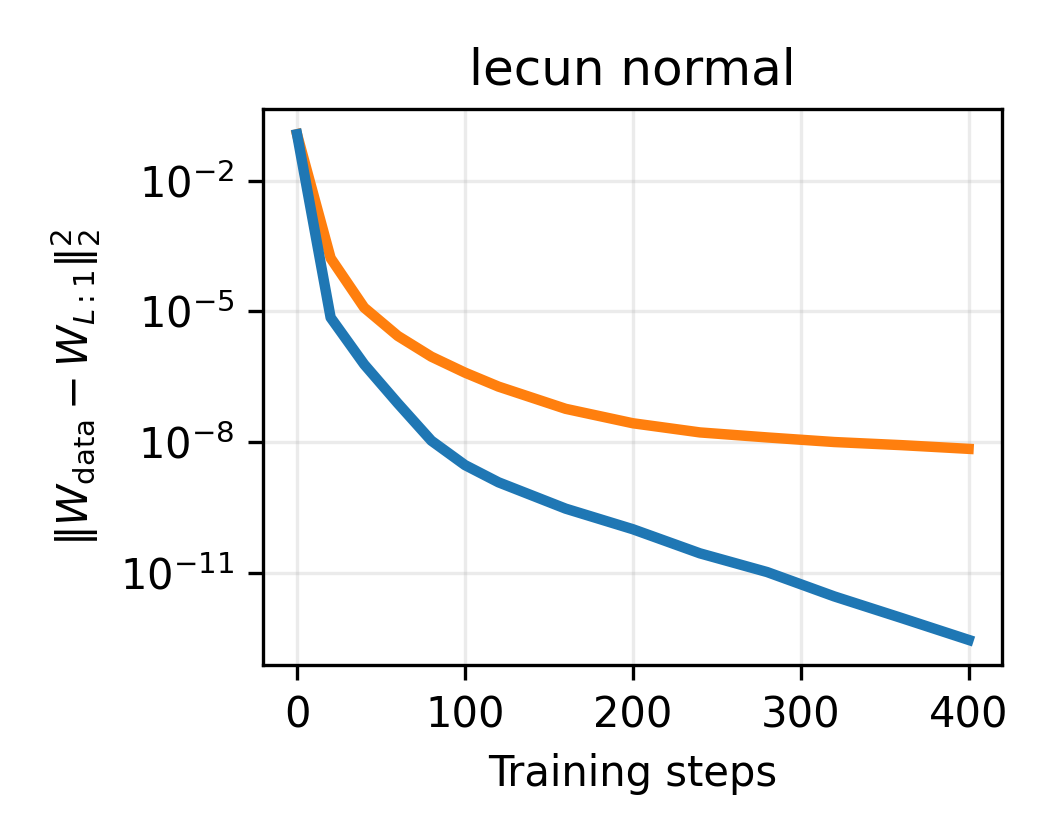
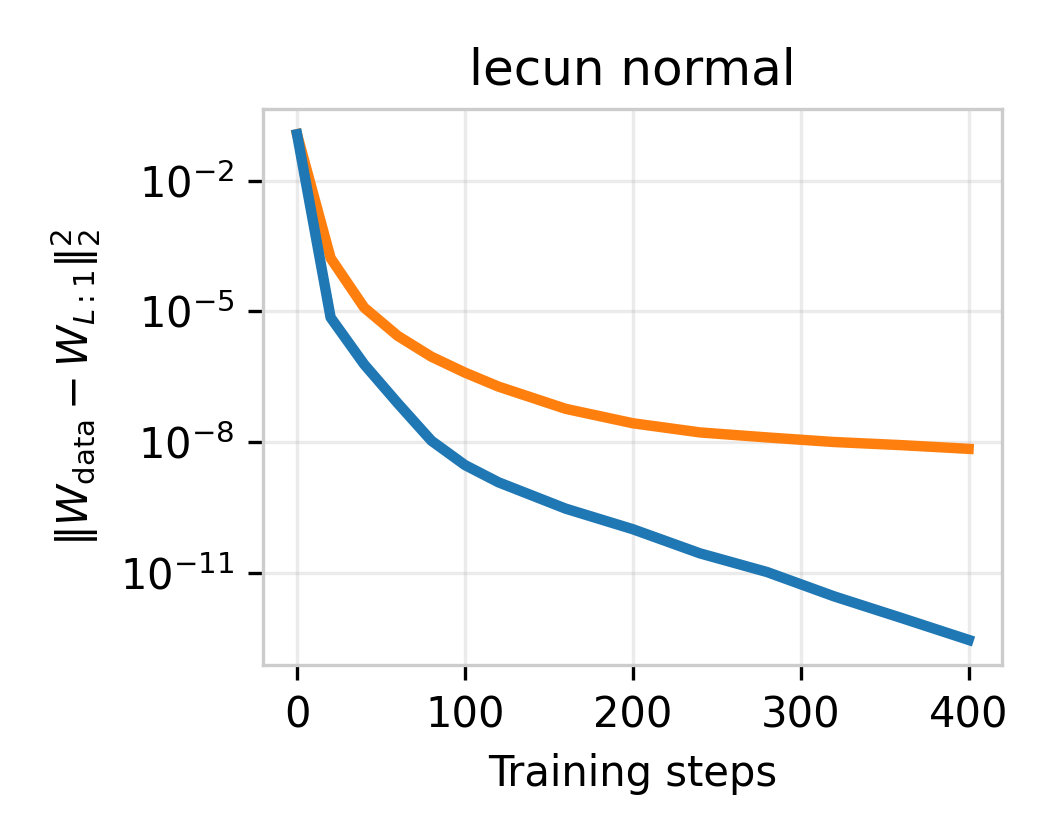
.

Changed region(s): [[0.2438, 0.1238, 0.9752, 0.8048]]

diff --git a/Figure2/figure2.py b/Figure2/figure2.py
@@ -734,6 +734,9 @@ for r, width in enumerate(widths_order):
         ax.tick_params(axis='both')
         ax.set_yscale("log")
         ax.grid(True, alpha=0.25)
+        for spine in ax.spines.values():
+            spine.set_color('#CCCCCC')   # light gray
+            spine.set_linewidth(0.8) 
         # Add a vertical dashed line at x = 20
 
         # Titles / labels
@@ -814,6 +817,9 @@ for r, width in enumerate(widths_order):
       #  ax.set_xlim(-1, max_steps_sweep)
        # ax.set_ylim(1e-4, 1e-1)
         ax.grid(True, alpha=0.25)
+        for spine in ax.spines.values():
+            spine.set_color('#CCCCCC')   # light gray
+            spine.set_linewidth(0.8) 
 
         # Titles / labels
         if r == 0:
@@ -879,6 +885,9 @@ for c, init_name in enumerate(inits_order):
     ax.set_title(init_name.replace("_", " "))
     ax.grid(True, alpha=0.25)
     ax.axvline(x=20, linestyle='dashed', color='grey')
+    for spine in ax.spines.values():
+            spine.set_color('#CCCCCC')   # light gray
+            spine.set_linewidth(0.8) 
 
 axes[0].set_ylabel(r"$\|W_{\mathrm{data}} - W_{L:1}\|_2^2$") # set_ylabel("Best Test MSE")
 
